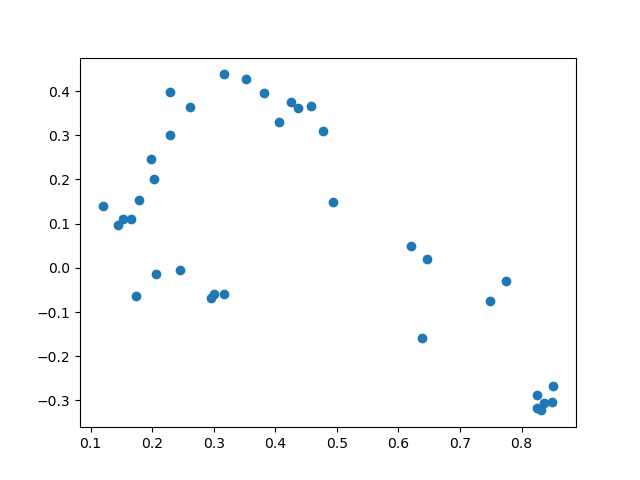
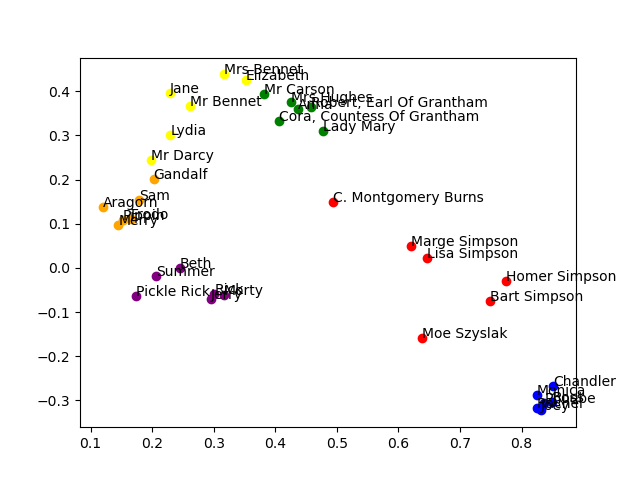
close to done with viz

diff --git a/code/k_means_across_media.py b/code/k_means_across_media.py
@@ -5,6 +5,8 @@ from sklearn.pipeline import make_pipeline
 from sklearn.feature_extraction.text import TfidfVectorizer
 from sklearn.decomposition import TruncatedSVD
 import matplotlib.pyplot as plt
+from sklearn.cluster import KMeans
+import matplotlib.patches as mpatches
 
 print('starting k_means_across_media.py')
 start_time = time.time()
@@ -17,7 +19,7 @@ dialogue = dialogue[dialogue['is_top_six'] == True]
 
 def prepare_data(df):    
     #init a default dict to store the data
-    speaker_dict = defaultdict(list)
+    speaker_dict = defaultdict(dict)
     for speaker in df['speaker'].unique():
         if len(df[df['speaker'] == speaker]['media'].unique()) > 1:
             print('this speaker is in more than one media')
@@ -30,31 +32,93 @@ def prepare_data(df):
             #convert the list of speaker dialogue into a single string
             speaker_dialogue = ' '.join(speaker_dialogue)
             #append the speaker and dialogue to the speaker_dict
-            speaker_dict[speaker] = speaker_dialogue
-    return speaker_dict
+            speaker_dict[speaker]['dialogue'] = speaker_dialogue
+            speaker_dict[speaker]['media'] = speaker_df['media'].unique()[0]
+    speaker_df = pd.DataFrame.from_dict(speaker_dict, orient='index').reset_index()
+    return speaker_df
 
-def transform_data(speaker_dictionary):
+def transform_data(speaker_df):
     #create a pipeline for tfidf and svd
     model = make_pipeline(
         TfidfVectorizer(ngram_range=(1, 3), max_df=0.99),
         TruncatedSVD(n_components=2)
     )
-    transformed_data = model.fit_transform(speaker_dictionary.values())
+    transformed_data = model.fit_transform(speaker_df['dialogue'].tolist())
+    
     return transformed_data
 
-def plot_data(matrix):
+def plot_data(matrix, speakers, media, response_type):
     #create a scatterplot of the data and save as png
     plt.cla()
-    plt.scatter(matrix[:, 0], matrix[:, 1], cmap='viridis')
-    plt.savefig('../images/k_means_across_media.png')
+
+    if response_type == 'actual':
+    #create a dictionary of colors for each media
+        labels = {'The Simpsons': 'red', 'Friends': 'blue', 'Downtown Abbey': 'green', 'The Lord of the Rings': 'orange', 'Rick and Morty': 'purple', 'Pride and Prejudice': 'yellow'}
+    elif response_type == 'predicted':
+        #create a dictionary of colors for each media
+        labels = {0: 'red', 1: 'blue', 2: 'green', 3: 'orange', 4: 'purple', 5: 'yellow'}
+
+    for i, txt in enumerate(speakers):
+        plt.scatter(matrix[i, 0], matrix[i, 1], color=labels[media[i]])
+        plt.annotate(txt, (matrix[:, 0][i], matrix[:, 1][i]))
+    plt.savefig(f'../images/k_means_across_media_{response_type}.png')
+    return None
+
+def cluster_data(matrix):
+    #run kmeans clustering
+    kmeans = KMeans(n_clusters=6, random_state=6740, n_init=20, max_iter=1000)
+    kmeans.fit(matrix)
+    return kmeans.labels_
+
+def get_purity_score(speaker, actual, predicted):
+    #create a df with the actual and predicted labels
+    df = pd.DataFrame({'speaker': speaker, 'actual': actual, 'predicted': predicted})
+    #determine the the most common actual label for each predicted label
+    outcome_df = df.groupby('predicted').agg(lambda x:x.value_counts().index[0])
+    #add a column to the original df of predicted category based on the outcome_df
+    df['predicted_category'] = df['predicted'].map(outcome_df['actual'])
+    #add a column that's true if the actual and predicted category are the same
+    df['is_correct'] = df['actual'] == df['predicted_category']
+    print(df)
 
     return None
 
+def plot_data_selective_annotation(speakers, media, matrix):
+    #create a scatterplot of the data and save as png
+    plt.cla()
+    legend_handles = []
+    labels = {'The Simpsons': 'red', 'Friends': 'blue', 'Downtown Abbey': 'green', 'The Lord of the Rings': 'orange', 'Rick and Morty': 'purple', 'Pride and Prejudice': 'yellow'}
+    for i, txt in enumerate(speakers):
+        plt.scatter(matrix[i, 0], matrix[i, 1], color=labels[media[i]])
+
+    patches = [mpatches.Patch(color=color, label=label) for label, color in labels.items()]
+    plt.legend(handles=patches)
+    #show the legend on the plot
+    plt.savefig(f'../images/k_means_across_media_misclassifications.png')
+    return None
+
 print('building dictionary')
-speaker_dialogues = prepare_data(dialogue)
+speaker_df = prepare_data(dialogue)
+
 print('performing tfidf and svd')
-transformed_data = transform_data(speaker_dialogues)
-print('plotting data')
-plot_data(transformed_data)
+transformed_data = transform_data(speaker_df)
+
+print('clustering data')
+cluster_labels = cluster_data(transformed_data)
+#add the cluster labels to the speaker_df
+speaker_df['cluster_label'] = cluster_labels
+
+print('plotting data with media labels')
+#plot_data(transformed_data, speaker_df['index'].tolist(), speaker_df['media'].tolist(), 'actual')
+
+print('plotting data with cluster labels')
+#plot_data(transformed_data, speaker_df['index'].tolist(), speaker_df['cluster_label'].tolist(), 'predicted')
+
+print('finding purity score')
+get_purity_score(speaker_df['index'].tolist(), speaker_df['media'].tolist(), speaker_df['cluster_label'].tolist())
+
+print('plotting final chart with selective annotation')
+plot_data_selective_annotation(speaker_df['index'].tolist(), speaker_df['media'].tolist(), transformed_data)
+
 end_time = time.time()
 print(f"Runtime of the program is {end_time - start_time}")
